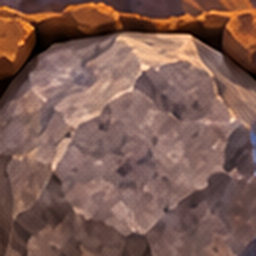
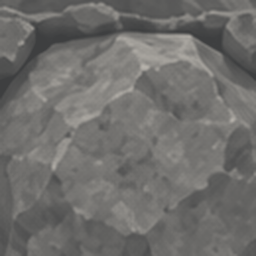
Add files via upload

diff --git a/index.html b/index.html
@@ -4,7 +4,7 @@
 <meta charset="utf-8" />
 <meta name="viewport" content="width=device-width, initial-scale=1, maximum-scale=1, user-scalable=no, viewport-fit=cover" />
 <meta name="theme-color" content="#24130d" />
-<title>Mole Quest — v5.5 Polish Pass</title>
+<title>Mole Quest — v5.6 Palette C + Level 10</title>
 <style>
   :root{
     --cream:#efe4d3;
@@ -93,14 +93,14 @@
   }
   .cell{position:relative;overflow:hidden;background:#1c110c center/cover no-repeat}
   .cell::after{content:"";position:absolute;inset:0;box-shadow:inset 0 0 0 1px rgba(0,0,0,.18);pointer-events:none}
-  .wall{background-image:url('wall-tile.png');filter:brightness(.75) saturate(.78)}
-  .dirt{background-image:url('dirt-tile.png');filter:saturate(.88) brightness(.90)}
-  .fragile{background-image:url('dirt-tile.png');filter:saturate(.85) brightness(.92);box-shadow:inset 0 0 0 2px rgba(236,182,106,.18),0 0 10px rgba(255,187,90,.08)}
+  .wall{background-image:url('wall-tile.png');filter:brightness(.96) saturate(.92)}
+  .dirt{background-image:url('dirt-tile.png');filter:saturate(1.02) brightness(1.02)}
+  .fragile{background-image:url('dirt-tile.png');filter:saturate(1.08) brightness(1.06);box-shadow:inset 0 0 0 3px rgba(255,213,137,.28),0 0 12px rgba(255,193,99,.14)}
   .fragile::before{content:"";position:absolute;z-index:2;inset:6%;background:linear-gradient(62deg,transparent 44%,rgba(61,27,13,.98) 45% 51%,transparent 52%) 46% 18%/70% 66% no-repeat,linear-gradient(118deg,transparent 44%,rgba(73,33,16,.96) 45% 51%,transparent 52%) 58% 60%/78% 68% no-repeat,linear-gradient(18deg,transparent 43%,rgba(38,18,10,.94) 44% 50%,transparent 51%) 34% 74%/64% 48% no-repeat,radial-gradient(circle at 62% 30%,rgba(255,207,123,.25) 0 12%,transparent 13%);opacity:.98}
   .collapsed{background:radial-gradient(circle at 50% 48%,#0c0908 0 35%,#17100d 36% 62%,#2a1d17 63% 100%);box-shadow:inset 0 0 18px rgba(0,0,0,.85)}
   .collapsed::before{content:"";position:absolute;inset:12%;background:radial-gradient(circle at 18% 25%,#5d4636 0 6%,transparent 7%),radial-gradient(circle at 72% 62%,#4b382d 0 7%,transparent 8%),radial-gradient(circle at 43% 78%,#6a4d3c 0 5%,transparent 6%);opacity:.8}
-  .empty{background-image:url('tunnel-tile.png');filter:brightness(.88)}
-  .rock{background-image:url('rock-tile.png');filter:saturate(.78) brightness(.95)}
+  .empty{background-image:url('tunnel-tile.png');filter:brightness(1.02) saturate(.88)}
+  .rock{background-image:url('rock-tile.png');filter:saturate(.35) brightness(1.02)}
   .rock.falling{animation:rockDrop .18s ease-out;filter:brightness(1.04)}
   .gem{background-image:url('gem-tile.png');animation:gemPulse 1.8s ease-in-out infinite;filter:saturate(.9) brightness(.95)}
   .key{background-image:url('tunnel-tile.png');animation:keyPulse 1.3s ease-in-out infinite alternate}
@@ -214,11 +214,12 @@
     <button data-test-level="6">7</button>
     <button data-test-level="7">8</button>
     <button data-test-level="8">9</button>
+    <button data-test-level="9">10</button>
     <button id="testFillLives">CAN DOLDUR</button>
     <button id="testAddHints">+10 HINT</button>
   </div>
   <div class="economy-note">Prototype economy • 5 can • 20 dakikada 1 can • 3 başlangıç hinti</div>
-  <div class="build">v5.5 • Level Polish Pass • Levels 6–9 refreshed</div>
+  <div class="build">v5.6 • Palette C • Level 10</div>
 </div>
 
 <div class="win" id="win">
@@ -260,7 +261,7 @@ const W=10,H=14;
 const MAX_LIVES=5;
 const REFILL_MS=20*60*1000;
 const START_HINTS=3;
-const STORAGE_PREFIX='mq_v55_';
+const STORAGE_PREFIX='mq_v56_';
 function readStore(key,fallback){try{const v=localStorage.getItem(STORAGE_PREFIX+key);return v===null?fallback:Number(v)}catch(e){return fallback}}
 function writeStore(key,value){try{localStorage.setItem(STORAGE_PREFIX+key,String(value))}catch(e){}}
 let lives=Math.max(0,Math.min(MAX_LIVES,readStore('lives',MAX_LIVES)));
@@ -495,6 +496,34 @@ const levels=[
       "##########"
     ]
   }
+  ,{
+    id:'1–10',
+    intro:'Level 10: Şalteri aç, tek kullanımlık çatlak köprüden geç ve sağ bölgedeki kaya koridorlarıyla devriye böceğini birlikte yönet.',
+    hint:'Level 10: Şalter köprünün kapısını açar. Çatlak köprü geri dönüşü kapatır; sağ tarafta bazı kayalar ancak altlarını kazınca düşer.',
+    hints:['Önce şalteri aç. Kapıya giden çatlak köprü tek kullanımlık; üzerinden ayrıldığın kareler çöker.','Sağ tarafta kayaların altındaki toprağı kazınca kaya hemen değil, altından çıktıktan sonra düşer. Kaçış yönünü önceden seç.','Mor böcek sağ alt koridorda tur atar. Son kristallere giderken kaya düşüşünü ve böceğin ritmini aynı anda takip et.'],
+    enemyMode:'loop',
+    enemyPath:[[6,8],[7,8],[8,8],[8,9],[8,10],[7,10],[6,10],[6,9]],
+    requiresKey:false,
+    requiresSwitch:true,
+    requiresPlate:false,
+    collapsingGround:true,
+    map:[
+      "##########",
+      "#Pddd#...#",
+      "#dRdd#RdG#",
+      "#ddSd#ddd#",
+      "#dddd#G..#",
+      "##cccD...#",
+      "#dddd#dG.#",
+      "#dRdd#Rdd#",
+      "#dddd#X..#",
+      "#dddd#..G#",
+      "#dddd#...#",
+      "#dddd#G.E#",
+      "#dddd#...#",
+      "##########"
+    ]
+  }
 ];
 
 let currentLevel=0;
@@ -713,7 +742,8 @@ function completeLevel(){
   else if(currentLevel===5) winText.textContent='Kayayı basınç plakasının üstüne oturtup geçidi açık tuttun ve altıncı bölümü tamamladın.';
   else if(currentLevel===6) winText.textContent='Devriye hattını zamanlayıp riskli kristalleri topladın ve yedinci bölümü tamamladın.';
   else if(currentLevel===7) winText.textContent='Şalteri açtın, anahtarı buldun ve devriye bölgesini geçerek sekizinci bölümü tamamladın.';
-  else winText.textContent='Çöken topraklarda doğru rotayı seçip dokuzuncu bölümü tamamladın.';
+  else if(currentLevel===8) winText.textContent='Çöken topraklarda doğru rotayı seçip dokuzuncu bölümü tamamladın.';
+  else winText.textContent='Çatlak köprüyü geçip kaya koridorlarını ve devriyeyi aşarak onuncu bölümü tamamladın.';
   nextBtn.textContent=isLast?'Baştan Oyna':'Sonraki Bölüm →';
   if(currentLevel===1) nextBtn.textContent='Sonraki Bölüm →';
   winEl.style.display='flex';
@@ -973,7 +1003,7 @@ document.querySelectorAll('[data-test-level]').forEach(btn=>{
 });
 
 syncRefill();
-// İstersen adresin sonuna ?level=9 yazarak direkt Level 7 açılabilir.
+// İstersen adresin sonuna ?level=10 yazarak direkt Level 10 açılabilir.
 const params=new URLSearchParams(location.search);
 const requestedLevel=Number(params.get('level'));
 if(Number.isInteger(requestedLevel) && requestedLevel>=1 && requestedLevel<=levels.length){

diff --git a/README.md b/README.md
@@ -1,6 +1,5 @@
-Mole Quest v5.5 – Polish Pass
+Mole Quest v5.6 – Palette C + Level 10
 
-Bu pakette özellikle 6–9. bölümler elden geçirildi.
-- Elmaslar daha asimetrik ve daha doğal dağıtıldı.
-- Level 9 çöken toprak mekaniği artık zorunlu ve daha görünür.
-- 1–5 tutorial doğasını koruyor; büyük polish turu 6–9 üzerinde yapıldı.
+- Palette C oyuna uygulandı: bal tonlu toprak, koyu mocha duvar, açık taupe tünel, nötr gri kaya.
+- Level 10 eklendi: şalter + zorunlu çöken köprü + düşen kaya riski + devriye böceği.
+- Test menüsünde 10 var; ?level=10 ile doğrudan açılabilir.
